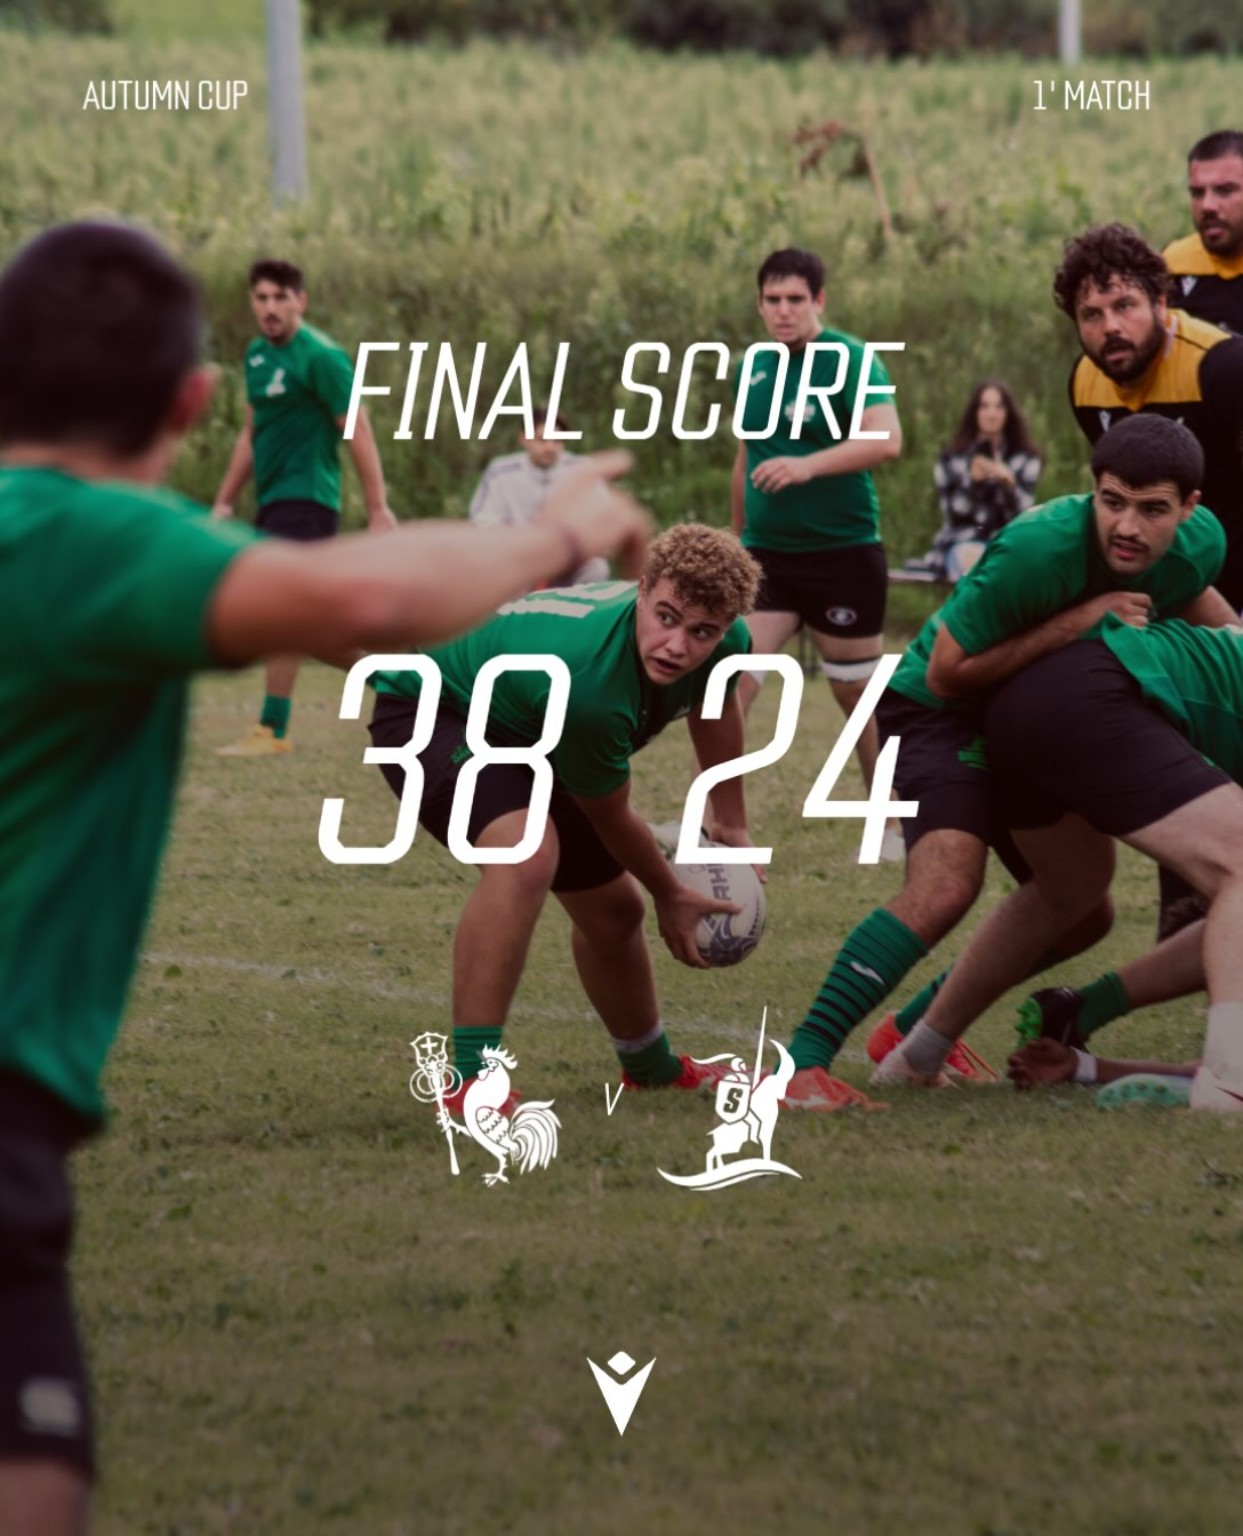
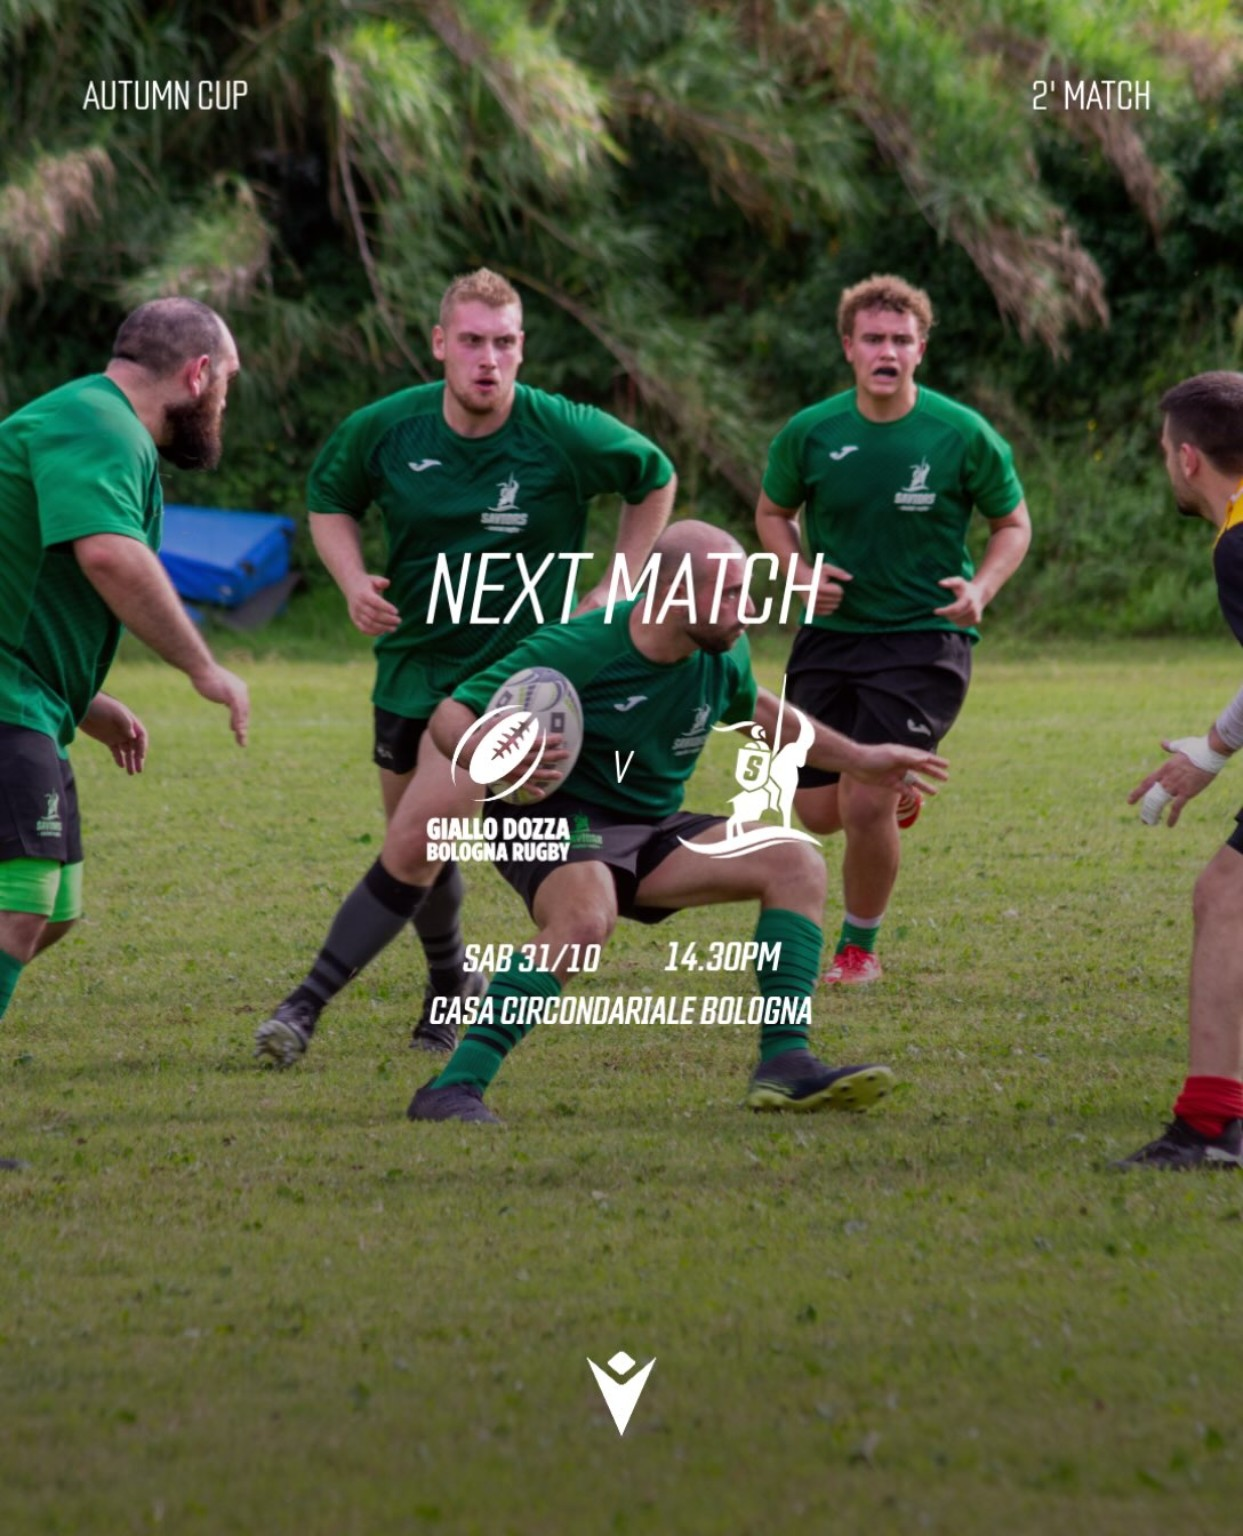
update

diff --git a/layouts/partials/next-match.html b/layouts/partials/next-match.html
@@ -48,9 +48,11 @@
                   {{ end }}
       </div>
 
+      {{ with $match.visitors_logo }}
       <div class="h-full text-center flex flex-1 flex-grow justify-center">
-          <img src="./teams/{{ $match.visitors_logo }}" alt="" class="h-16 w-16 object-contain" />
+          <img src="./teams/{{ . }}" alt="" class="h-16 w-16 object-contain" />
       </div>
+      {{ end }}
   </section>
   <div style="background-color: #1c8a37" class="h-[2px] mt-4 mb-2"></div>
   <div class="flex items-center justify-center">

diff --git a/content/posts/news/last-match/index.md b/content/posts/news/last-match/index.md
@@ -1,13 +1,13 @@
 ---
-title: "Ultimo Match: Romagna RFC 38 - 24 Saviors"
-date: "2026-10-16"
+title: "Ultimo Match: Giallo Dozza 5 - 54 Saviors"
+date: "2026-10-31"
 sharingLinks:
   - facebook
   - whatsapp
   - telegram
 tags:
   - Saviors
-  - Romagna
+  - Dozza
 showDate: false
 showHeadingAnchors: false
 showHero: false
@@ -16,8 +16,10 @@ weight: 1
 draft: false
 ---
 
-![Risultato finale: Romagna RFC 38 - 24 Saviors Social Rugby — 1ᵃ partita Autumn Cup](./featured.jpg)
+![Giallo Dozza Bologna vs Saviors Social Rugby — 31 ottobre 2026](./featured.jpg)
 
-| Giornata                                    | Data       | Orario | Casa        | Ospiti                       | Campo                 | Risultato   |
-| ------------------------------------------- | ---------- | ------ | ----------- | ---------------------------- | --------------------- | ----------- |
-| 1ᵃ partita Autumn Cup (Trofeo Foglia 150cc) | 18/10/2026 | 15:30  | Romagna RFC | **Saviors Social Rugby ASD** | Campo Rugby Rivabella | **38 - 24** |
+**Giallo Dozza Bologna 5 - 54 Saviors Social Rugby ASD**
+
+| Giornata              | Data       | Orario | Casa                | Ospiti                       | Campo                                                                            | Risultato  |
+| --------------------- | ---------- | ------ | ------------------- | ---------------------------- | -------------------------------------------------------------------------------- | ---------- |
+| 2ᵃ partita Autumn Cup | 31/10/2026 | 14:30  | Giallo Dozza Bologna | **Saviors Social Rugby ASD** | Casa circondariale “Rocco D’Amato” (Dozza), Via del Gomito 2, 40127 Bologna (BO) | **5 - 54** |

diff --git a/content/posts/news/next-match/index.md b/content/posts/news/next-match/index.md
@@ -1,25 +1,23 @@
 ---
-title: "Prossimo Match: Giallo Dozza vs Saviors"
-date: "2026-10-31"
+title: "Prossimo Match: Saviors vs Highlanders Formigine Rugby"
+date: "2026-11-02"
 sharingLinks:
   - facebook
   - whatsapp
   - telegram
 tags:
   - Saviors
-  - Dozza
+  - Highlanders Formigine Rugby
 showDate: false
 showHeadingAnchors: false
 showHero: false
-featureimage: featured.jpg
+hideFeatureImage: true
 weight: 1
 draft: false
 ---
 
-![Giallo Dozza Bologna vs Saviors Social Rugby — 2ᵃ partita Autumn Cup, 31 ottobre 2026 alle 14:30, Casa circondariale di Bologna (Dozza)](./featured.jpg)
+**Saviors Social Rugby ASD vs Highlanders Formigine Rugby**
 
-**Giallo Dozza Bologna vs Saviors Social Rugby ASD**
-
-| Data       | Orario | Campo                                                                            |
-| ---------- | ------ | -------------------------------------------------------------------------------- |
-| 31/10/2026 | 14:30  | Casa circondariale “Rocco D’Amato” (Dozza), Via del Gomito 2, 40127 Bologna (BO) |
+| Data       | Orario | Casa                         | Ospiti                     |
+| ---------- | ------ | ---------------------------- | -------------------------- |
+| 22/11/2026 | 14:30  | **Saviors Social Rugby ASD** | Highlanders Formigine Rugby |
